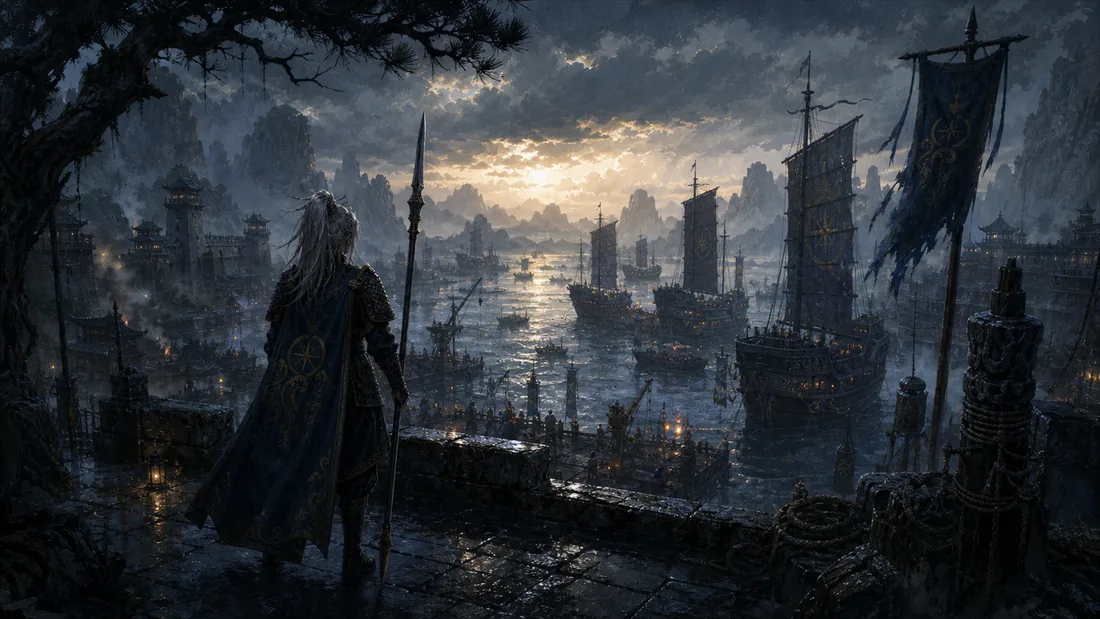
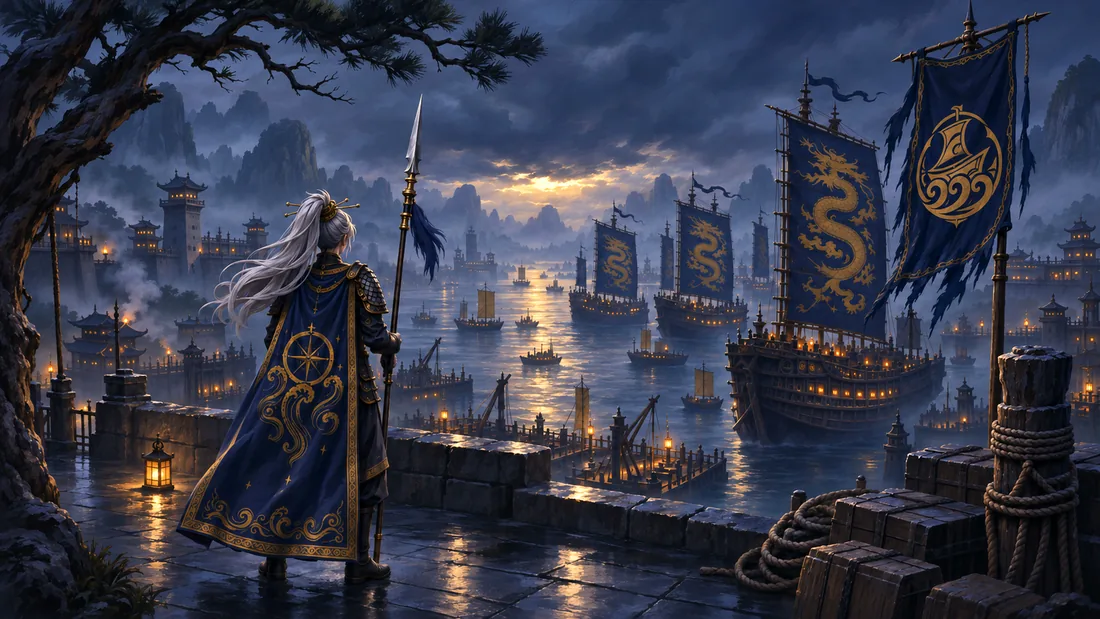
art: use current game loading image for website covers

diff --git a/scripts/build_art.py b/scripts/build_art.py
@@ -16,6 +16,7 @@ mod 那边重画了兵牌 / 立绘之后重跑一次，产物入库。
     assets/chars/full/<key>.webp        人物页大图 640 宽，12:26，不撕边（同兵种页）
     assets/scenes/<slug>.jpg            同伴横幅 800×450
     assets/site/poster-1800.webp        背景故事页头图
+    assets/site/harbour-{1800,1100}.webp 首页封面，与游戏当前 loading 图同步
 
 撕边遮罩全站共用一张：取 design/source 快照里 tide_guard_full_torn_edge.png 的 alpha，
 按目标尺寸缩放——和 mod 仓库 tools/build_torn_edge.py 是同一张遮罩。mod 那边重画后
@@ -100,7 +101,8 @@ SCENES = {
     "ibuki": "ibuki/scenes/ibuki_quest_ch1_dawn_oath.png",
 }
 
-POSTER = "loading_posters/npex_loading_poster_v4_rain_backview_1920x1080.png"
+# 直接取现役 loading 运行图，避免概念图候选编号与实际游戏版本不一致。
+POSTER = "ui/loading_ui/load_images/cth_npex_jade_sea_fleet.png"
 
 
 def fit(im: Image.Image, size: tuple[int, int]) -> Image.Image:
@@ -161,9 +163,11 @@ def main() -> None:
 
     if "poster" in args.only:
         print("头图")
-        poster = Image.open(concepts / POSTER).convert("RGB")
+        poster = Image.open(args.mod / POSTER).convert("RGB")
         save_webp(poster.resize((1800, round(poster.height * 1800 / poster.width)), Image.LANCZOS),
                   ROOT / "assets/site/poster-1800.webp", 82)
+        for width in (1800, 1100):
+            save_webp(to_width(poster, width), ROOT / "assets/site" / f"harbour-{width}.webp", 82)
 
 
 if __name__ == "__main__":
